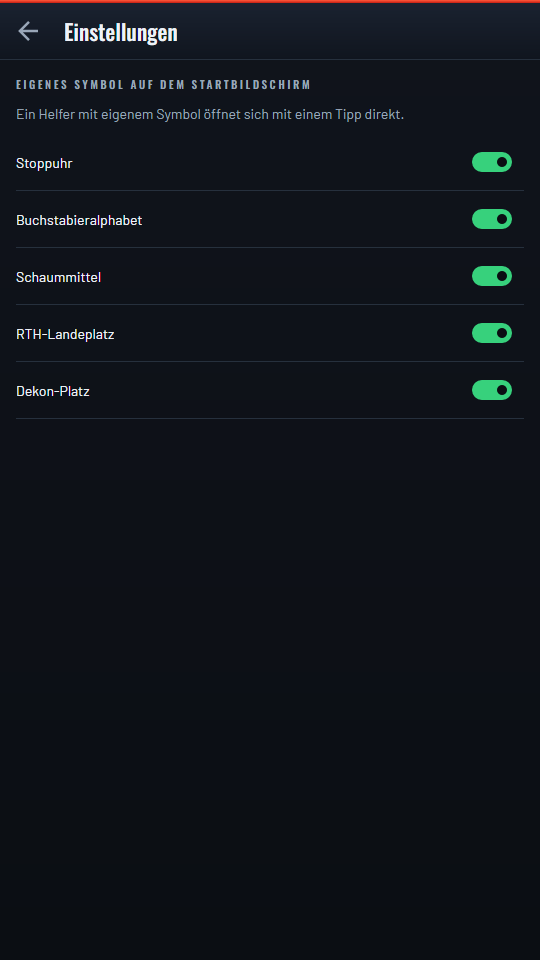
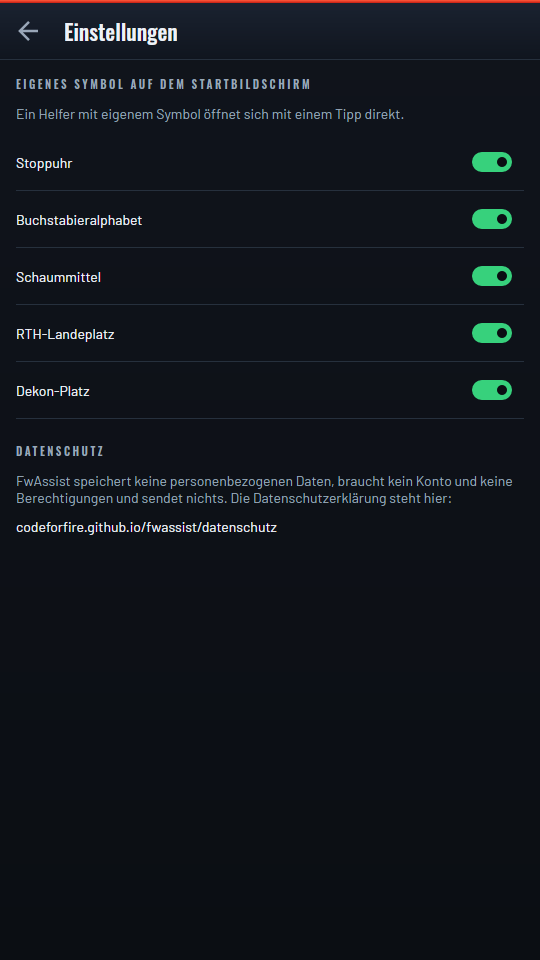
feat: name the privacy policy in Einstellungen
Google Play requires every app to carry "a privacy policy link or text
within the app itself", in addition to the URL in the Play Console.
Einstellungen gains a DATENSCHUTZ section: one sentence on what the app
does not do, and the policy's address as text.

It is text, not a link, so no URL launcher seam, no URL validator and no
platform call is needed for a page that is read once.

diff --git a/tests/FwAssist.Acceptance.Tests/DemoFlowRenderTests.cs b/tests/FwAssist.Acceptance.Tests/DemoFlowRenderTests.cs
@@ -117,6 +117,20 @@ public class DemoFlowRenderTests
         phone.Capture("03-einstellungen.png");
     }
 
+    // Google Play wants the privacy policy reachable inside the app, not only on the listing.
+    [AvaloniaFact]
+    public void Settings_show_where_the_privacy_policy_is()
+    {
+        var phone = new PhoneRender();
+        phone.Shell.Home.OpenSettingsCommand.Execute(null);
+        PhoneRender.Settle();
+
+        var url = phone.Window.GetVisualDescendants().OfType<TextBlock>().Single(t => t.Name == "PrivacyPolicyUrl");
+        Assert.True(url.IsEffectivelyVisible);
+        Assert.Equal("codeforfire.github.io/fwassist/datenschutz", url.Text);
+        Assert.Contains("DATENSCHUTZ", Texts(phone.Window));
+    }
+
     [AvaloniaFact]
     public void The_funkalphabet_spells_what_is_typed_and_switches_to_the_din_table()
     {

diff --git a/changelog.d/+settings-datenschutz.added.md b/changelog.d/+settings-datenschutz.added.md
@@ -1,0 +1,1 @@
+Einstellungen now names the privacy policy and where to read it, as Google Play requires inside the app.
